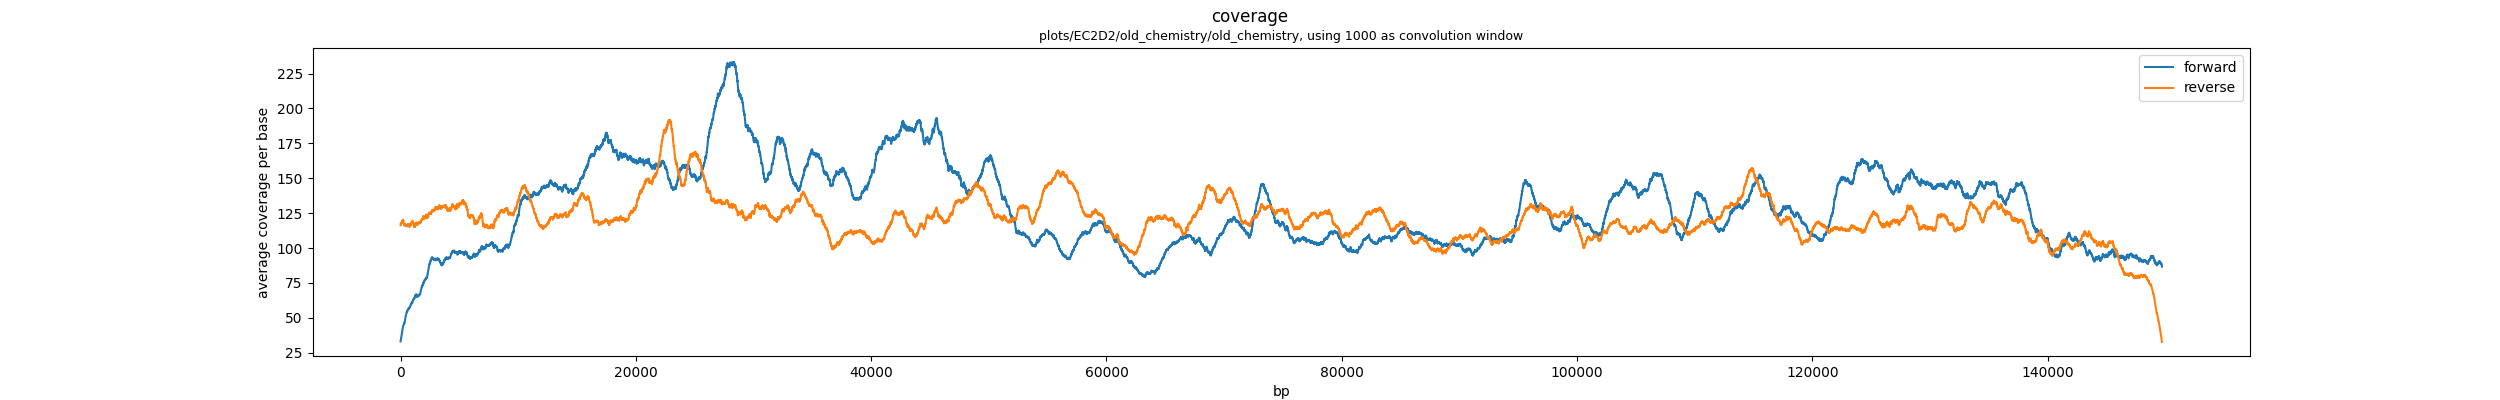
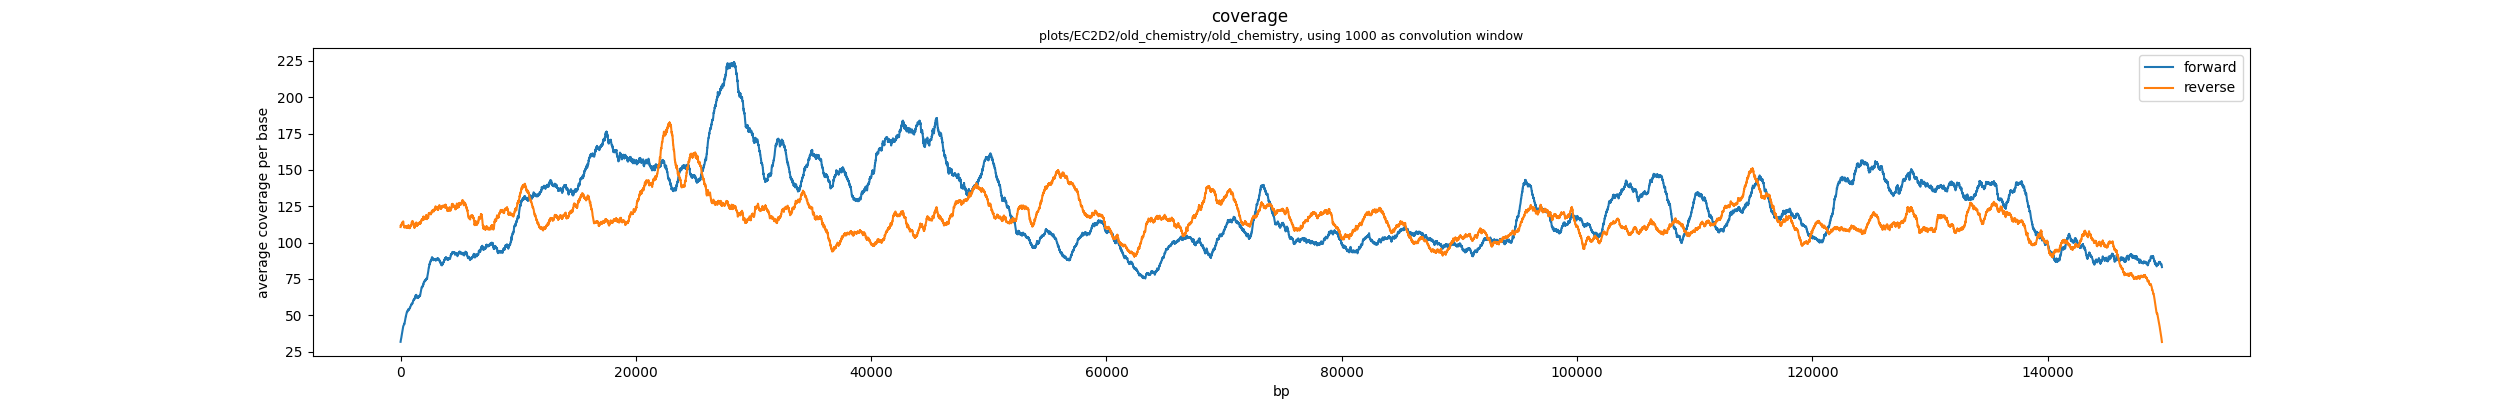
environments rename

diff --git a/frequencies_generator.py b/frequencies_generator.py
@@ -40,6 +40,18 @@ def get_total_mappings(clips_dict,l):
         reverse_mappings[pos]=clip_data[3]
     return forward_mappings,reverse_mappings
 
+def gap_coverage(pileup,l):
+    #the nucleotides are stored in the first 4 rows of the pileup
+    forward=pileup[0]
+    reverse=pileup[1]
+    forward_coverage=np.zeros(l)
+    reverse_coverage=np.zeros(l)
+    for nuc_i,nuc in enumerate(forward):
+        for pos,val in enumerate(nuc):
+            forward_coverage[pos]+=forward[nuc_i,pos]
+            reverse_coverage[pos]+=reverse[nuc_i,pos]
+    return forward_coverage,reverse_coverage
+
 def sum_forward_reverse(fwd,rev):
     #takes forward and reverse counts, gives total counts
     total=np.zeros(np.shape(fwd))
@@ -59,7 +71,6 @@ def threshold_on_value_of_array(to_filter, array, t):
             for i,v in enumerate(output_tris):
                 output_tris[i].append(to_filter[i][pos])
         check=True
-
     return output_tris
 
 def generate_frequencies(pileup,reference,clips_dict,insertions_dict,t1,t2):
@@ -81,19 +92,23 @@ def generate_frequencies(pileup,reference,clips_dict,insertions_dict,t1,t2):
     forward_maps, reverse_maps = get_total_mappings(clips_dict,l)
     tot_maps = sum_forward_reverse(forward_maps,reverse_maps)
     maps_array=(forward_maps,reverse_maps,tot_maps)
+
+    forward_gap_coverage, reverse_gap_coverage = gap_coverage(pileup,l)
+    tot_gap_coverage = sum_forward_reverse(forward_gap_coverage,reverse_gap_coverage)
+    gap_coverage_array=(forward_gap_coverage,reverse_gap_coverage,tot_gap_coverage)
     
     for key,val in arrays.items():
         fwd,rev=val
         tot=sum_forward_reverse(fwd,rev)
-        if key=='clips':
-            fwd=fwd/forward_maps
-            rev=rev/reverse_maps
-            tot=tot/tot_maps
-        else:
-            fwd=fwd/forward_coverage
-            rev=rev/reverse_coverage
-            tot=tot/tot_coverage
-        arrays[key]=(fwd,rev,tot)
+        array=[fwd,rev,tot]
+        for i,direction in enumerate(array):
+            if key=='clips':
+                array[i]=array[i]/maps_array[i]
+            if key=='gaps':
+                array[i]=array[i]/gap_coverage_array[i]
+            else:
+                array[i]=array[i]/coverage_array[i]
+        arrays[key]=array
 
     fncf, rncf, tncf = ncf(pileup,reference,l)
     arrays['ncf'] = (fncf, rncf, tncf)

diff --git a/plot_frequency_scores.py b/plot_frequency_scores.py
@@ -11,7 +11,7 @@ def store_sites(dictionary_input,out_file):
         pickle.dump(dictionary_input, fp)
 
 if __name__ == "__main__":
-    '''
+    
     import argparse
 
     parser = argparse.ArgumentParser(
@@ -27,10 +27,10 @@ if __name__ == "__main__":
     out_file=args.out
     ref_file=args.ref
     '''
-    in_folder='results/EC2D2/pileup/new_chemistry/new_chemistry'
-    out_file='significant_sites/EC2D2/new_chemistry.pkl'
-    ref_file='results/EC2D2/assemblies/new_chemistry.fasta'
-    
+    in_folder='results/EM11/pileup/new_chemistry/new_chemistry'
+    out_file='significant_sites/EM11/new_chemistry.pkl'
+    ref_file='results/EM11/assemblies/new_chemistry.fasta'
+    '''
     pileup_file=f'{in_folder}/allele_counts.npz'
     clips_file=f'{in_folder}/clips.pkl.gz'
     insertions_file=f'{in_folder}/insertions.pkl.gz'

diff --git a/pileup_plots.py b/pileup_plots.py
@@ -8,8 +8,9 @@ def coverage(pileup,l):
     reverse_coverage=np.zeros(l)
     for nuc_i,nuc in enumerate(forward):
         for pos,val in enumerate(nuc):
-            forward_coverage[pos]+=forward[nuc_i,pos]
-            reverse_coverage[pos]+=reverse[nuc_i,pos]
+            if nuc_i<4:
+                forward_coverage[pos]+=forward[nuc_i,pos]
+                reverse_coverage[pos]+=reverse[nuc_i,pos]
     return forward_coverage,reverse_coverage
 
 def non_consensus_frequency(pileup,reference,l):

diff --git a/notes/note1.md b/notes/note1.md
@@ -39,7 +39,7 @@ now we have to align the reads with the assembly that we created before. we will
 
 then we have to convert sam to bam, we can use the samtools, more specifically samtools sort. then samtools index to be able to look at the bam in igv.
 
-![artifact](artifact.png)
+![artifact](images/artifact.png)
 
 we noticed something weird! the first 127 basepairs are hypercovered and disjoint with respect to the rest of the genome, the blast didn't give a strong match, they are not even part of the nanopore barcodes. they are probably just an assembly artifact.
 we have some more information! all of the aligned bases in this region are supplementary, meaning that the main part of the read aligns somewhere and a little overhang aligns at the beginning.

diff --git a/notes/note2.md b/notes/note2.md
@@ -72,6 +72,12 @@ nanopore qc
 rename all envs
 
 normalise for t0 frequences
-finish timepoint analysis
-add plot frequency scores to the pipeline
 secondary mapping is too ugly to be added to the pipeline
+
+check the significant results
+change the datastructure for the time analysis
+run the pipeline for the time analysis
+
+check the old chemistry data
+
+try to polish the no_barcode assembly
